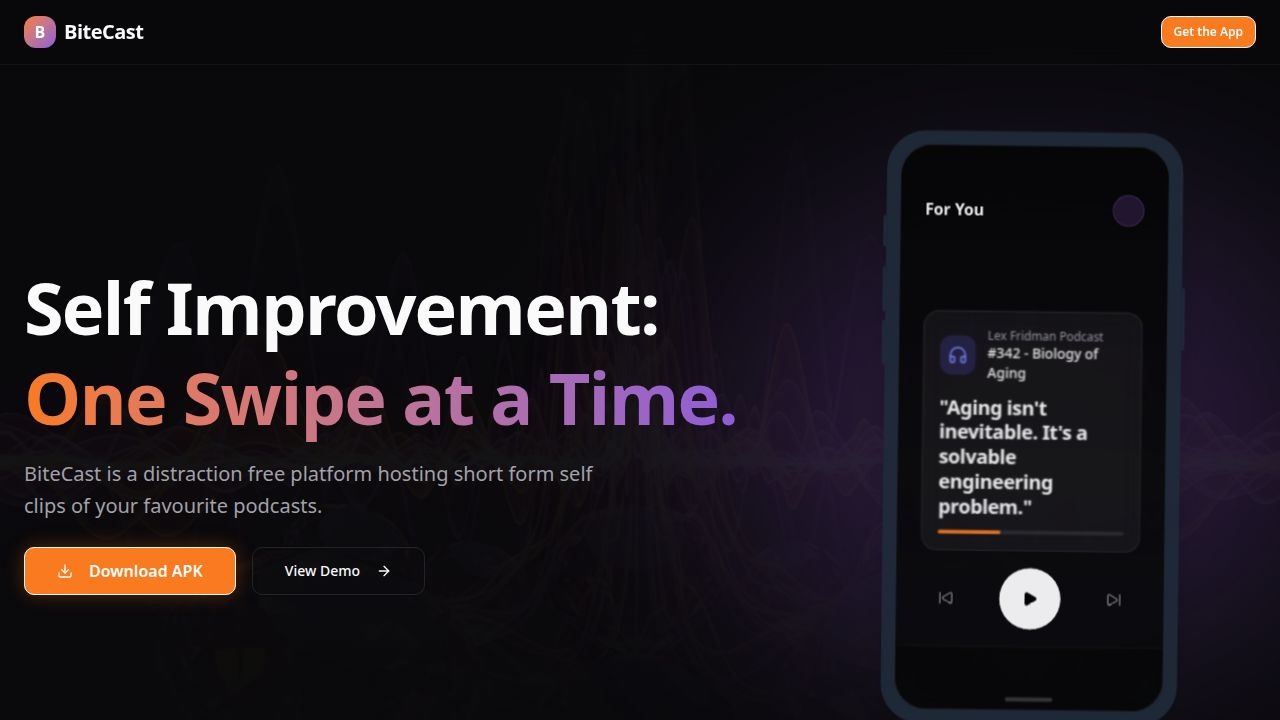
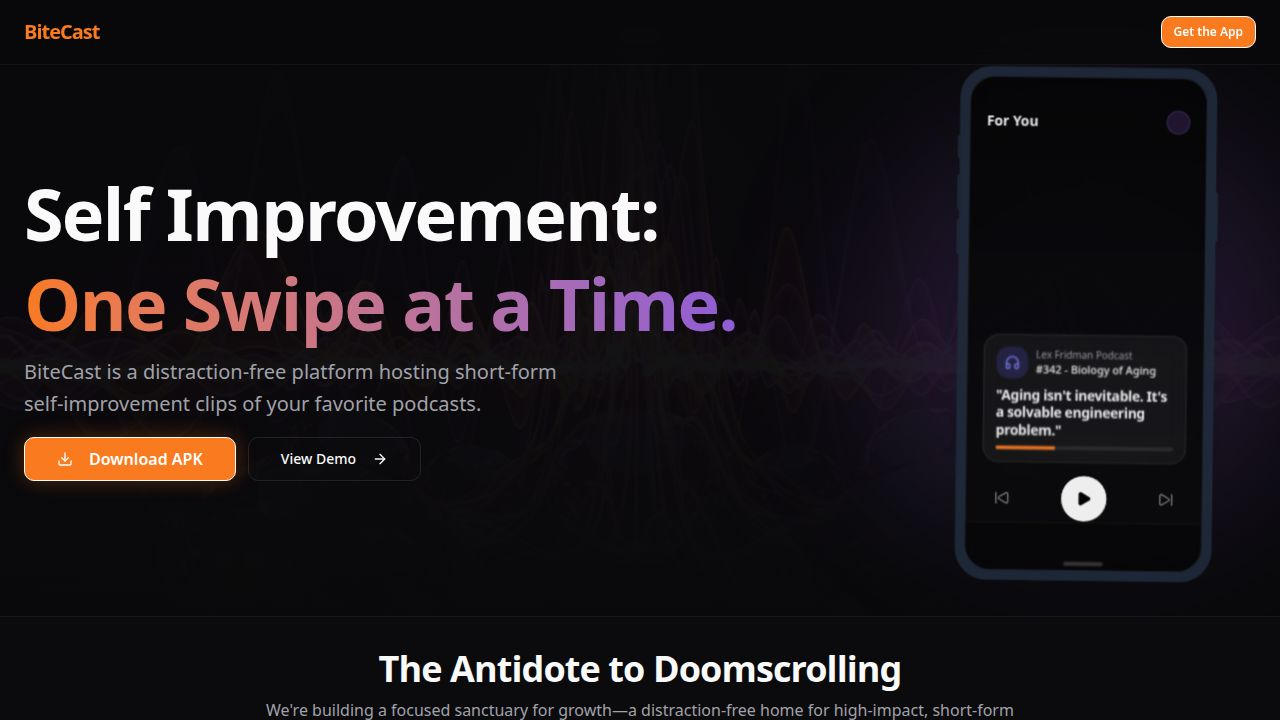
Tighten spacing and reduce element sizes across the landing page
Adjusted padding, margins, and button/mockup dimensions in `client/src/pages/home.tsx` to create a more compact UI.

Replit-Commit-Author: Agent
Replit-Commit-Session-Id: 0bd07f85-ab07-417b-9c41-ed8c2dc772e7
Replit-Commit-Checkpoint-Type: full_checkpoint
Replit-Commit-Event-Id: a2579261-8c98-4568-9f39-3784bae72368
Replit-Commit-Screenshot-Url: https://storage.googleapis.com/screenshot-production-us-central1/eac42e94-638d-492f-a15c-382911030d7d/0bd07f85-ab07-417b-9c41-ed8c2dc772e7/Fng3XMm
Replit-Helium-Checkpoint-Created: true

diff --git a/client/src/pages/home.tsx b/client/src/pages/home.tsx
@@ -24,7 +24,7 @@ export default function Home() {
       </nav>
 
       {/* Hero Section */}
-      <section className="relative pt-24 pb-16 md:pt-32 md:pb-24 overflow-hidden">
+      <section className="relative pt-12 pb-4 md:pt-16 md:pb-8 overflow-hidden">
         {/* Background Gradient/Image */}
         <div className="absolute inset-0 z-0">
           <div className="absolute inset-0 bg-background/90 z-10" />
@@ -37,32 +37,32 @@ export default function Home() {
         </div>
 
         <div className="container mx-auto px-6 relative z-30">
-          <div className="flex flex-col md:flex-row items-center gap-8 md:gap-16">
+          <div className="flex flex-col md:flex-row items-center gap-4 md:gap-8">
             <div className="flex-1 text-center md:text-left">
               <motion.div
                 initial={{ opacity: 0, y: 20 }}
                 animate={{ opacity: 1, y: 0 }}
                 transition={{ duration: 0.5 }}
               >
-                <h1 className="text-4xl md:text-6xl lg:text-7xl font-bold font-heading leading-tight mb-4">
+                <h1 className="text-4xl md:text-6xl lg:text-7xl font-bold font-heading leading-tight mb-2">
                   Self Improvement: <br />
                   <span className="text-transparent bg-clip-text bg-gradient-to-r from-primary to-secondary">
                     One Swipe at a Time.
                   </span>
                 </h1>
-                <p className="text-lg md:text-xl text-muted-foreground mb-6 max-w-xl mx-auto md:mx-0 leading-relaxed">
+                <p className="text-lg md:text-xl text-muted-foreground mb-4 max-w-xl mx-auto md:mx-0 leading-relaxed">
                   BiteCast is a distraction-free platform hosting short-form self-improvement clips of your favorite podcasts.
                 </p>
-                <div className="flex flex-col sm:flex-row items-center gap-4 justify-center md:justify-start">
+                <div className="flex flex-col sm:flex-row items-center gap-3 justify-center md:justify-start">
                   <Button 
                     size="lg" 
-                    className="w-full sm:w-auto text-base font-semibold h-12 px-8 shadow-[0_0_20px_rgba(249,115,22,0.3)] hover:shadow-[0_0_30px_rgba(249,115,22,0.5)] transition-shadow"
+                    className="w-full sm:w-auto text-base font-semibold h-11 px-8 shadow-[0_0_20px_rgba(249,115,22,0.3)] hover:shadow-[0_0_30px_rgba(249,115,22,0.5)] transition-shadow"
                     onClick={scrollToDownload}
                   >
                     <Download className="mr-2 h-5 w-5" />
                     Download APK
                   </Button>
-                  <Button variant="outline" size="lg" className="w-full sm:w-auto h-12 px-8 border-white/10 hover:bg-white/5">
+                  <Button variant="outline" size="lg" className="w-full sm:w-auto h-11 px-8 border-white/10 hover:bg-white/5">
                     View Demo <ArrowRight className="ml-2 h-4 w-4" />
                   </Button>
                 </div>
@@ -70,42 +70,42 @@ export default function Home() {
             </div>
 
             {/* Phone Mockup */}
-            <div className="flex-1 w-full max-w-[320px] md:max-w-md relative">
+            <div className="flex-1 w-full max-w-[280px] md:max-w-[340px] relative">
               <motion.div
                 initial={{ opacity: 0, scale: 0.9, rotate: 6 }}
                 animate={{ opacity: 1, scale: 1, rotate: 0 }}
                 transition={{ duration: 0.7, delay: 0.2 }}
                 className="relative z-10"
               >
-                <div className="relative mx-auto border-gray-800 bg-gray-800 border-[14px] rounded-[2.5rem] h-[600px] w-[300px] shadow-2xl">
-                  <div className="h-[32px] w-[3px] bg-gray-800 absolute -start-[17px] top-[72px] rounded-s-lg"></div>
-                  <div className="h-[46px] w-[3px] bg-gray-800 absolute -start-[17px] top-[124px] rounded-s-lg"></div>
-                  <div className="h-[46px] w-[3px] bg-gray-800 absolute -start-[17px] top-[178px] rounded-s-lg"></div>
-                  <div className="h-[64px] w-[3px] bg-gray-800 absolute -end-[17px] top-[142px] rounded-e-lg"></div>
-                  <div className="rounded-[2rem] overflow-hidden w-full h-full bg-background border border-white/5 flex flex-col relative">
+                <div className="relative mx-auto border-gray-800 bg-gray-800 border-[10px] rounded-[2rem] h-[520px] w-[260px] shadow-2xl">
+                  <div className="h-[24px] w-[2px] bg-gray-800 absolute -start-[12px] top-[60px] rounded-s-lg"></div>
+                  <div className="h-[36px] w-[2px] bg-gray-800 absolute -start-[12px] top-[100px] rounded-s-lg"></div>
+                  <div className="h-[36px] w-[2px] bg-gray-800 absolute -start-[12px] top-[145px] rounded-s-lg"></div>
+                  <div className="h-[50px] w-[2px] bg-gray-800 absolute -end-[12px] top-[115px] rounded-e-lg"></div>
+                  <div className="rounded-[1.6rem] overflow-hidden w-full h-full bg-background border border-white/5 flex flex-col relative">
                     
                     {/* Mock UI Content */}
                     <div className="absolute inset-0 bg-gradient-to-b from-black/60 to-transparent z-10 pointer-events-none" />
                     
                     {/* Top Bar */}
-                    <div className="p-6 pt-12 flex justify-between items-center z-20">
-                       <span className="font-heading font-bold">For You</span>
-                       <div className="w-8 h-8 rounded-full bg-secondary/20 border border-secondary/30" />
+                    <div className="p-4 pt-8 flex justify-between items-center z-20">
+                       <span className="font-heading font-bold text-sm">For You</span>
+                       <div className="w-6 h-6 rounded-full bg-secondary/20 border border-secondary/30" />
                     </div>
 
                     {/* Main Content Area - The "Card" */}
-                    <div className="flex-1 flex flex-col justify-end p-6 z-20 pb-20">
-                      <div className="bg-white/5 backdrop-blur-md border border-white/10 rounded-2xl p-4 mb-4">
-                         <div className="flex items-center gap-3 mb-3">
-                           <div className="w-10 h-10 rounded-lg bg-indigo-500/20 flex items-center justify-center">
-                             <Headphones className="w-5 h-5 text-indigo-400" />
+                    <div className="flex-1 flex flex-col justify-end p-4 z-20 pb-12">
+                      <div className="bg-white/5 backdrop-blur-md border border-white/10 rounded-xl p-3 mb-3">
+                         <div className="flex items-center gap-2 mb-2">
+                           <div className="w-8 h-8 rounded-lg bg-indigo-500/20 flex items-center justify-center">
+                             <Headphones className="w-4 h-4 text-indigo-400" />
                            </div>
                            <div>
-                             <p className="text-xs text-muted-foreground">Lex Fridman Podcast</p>
-                             <p className="font-medium text-sm">#342 - Biology of Aging</p>
+                             <p className="text-[10px] text-muted-foreground">Lex Fridman Podcast</p>
+                             <p className="font-medium text-[11px]">#342 - Biology of Aging</p>
                            </div>
                          </div>
-                         <h3 className="font-heading font-bold text-xl leading-tight mb-3">
+                         <h3 className="font-heading font-bold text-sm leading-tight mb-2">
                            "Aging isn't inevitable. It's a solvable engineering problem."
                          </h3>
                          <div className="w-full h-1 bg-white/10 rounded-full overflow-hidden">
@@ -114,40 +114,40 @@ export default function Home() {
                       </div>
 
                       {/* Controls */}
-                      <div className="flex items-center justify-between px-2">
-                        <Button size="icon" variant="ghost" className="rounded-full text-white/50 hover:text-white hover:bg-white/10">
-                          <SkipForward className="w-6 h-6 rotate-180" />
+                      <div className="flex items-center justify-between px-1">
+                        <Button size="icon" variant="ghost" className="h-8 w-8 rounded-full text-white/50 hover:text-white hover:bg-white/10">
+                          <SkipForward className="w-4 h-4 rotate-180" />
                         </Button>
-                        <Button size="icon" className="h-16 w-16 rounded-full bg-white text-black hover:bg-gray-200">
-                           <Play className="w-8 h-8 fill-black" />
+                        <Button size="icon" className="h-12 w-12 rounded-full bg-white text-black hover:bg-gray-200">
+                           <Play className="w-6 h-6 fill-black" />
                         </Button>
-                         <Button size="icon" variant="ghost" className="rounded-full text-white/50 hover:text-white hover:bg-white/10">
-                          <SkipForward className="w-6 h-6" />
+                         <Button size="icon" variant="ghost" className="h-8 w-8 rounded-full text-white/50 hover:text-white hover:bg-white/10">
+                          <SkipForward className="w-4 h-4" />
                         </Button>
                       </div>
                     </div>
 
                     {/* Bottom Nav */}
-                    <div className="absolute bottom-0 w-full h-16 bg-black/40 backdrop-blur-xl border-t border-white/5 flex items-center justify-around z-30">
-                       <div className="w-12 h-1 bg-white/20 rounded-full mb-2 mx-auto mt-auto" /> 
+                    <div className="absolute bottom-0 w-full h-12 bg-black/40 backdrop-blur-xl border-t border-white/5 flex items-center justify-around z-30">
+                       <div className="w-10 h-1 bg-white/20 rounded-full mb-1 mx-auto mt-auto" /> 
                     </div>
                   </div>
                 </div>
               </motion.div>
               
               {/* Decorative elements behind phone */}
-              <div className="absolute top-1/2 left-1/2 -translate-x-1/2 -translate-y-1/2 w-[140%] h-[80%] bg-secondary/20 blur-[100px] -z-10 rounded-full" />
+              <div className="absolute top-1/2 left-1/2 -translate-x-1/2 -translate-y-1/2 w-[120%] h-[70%] bg-secondary/20 blur-[80px] -z-10 rounded-full" />
             </div>
           </div>
         </div>
       </section>
 
       {/* Value Proposition */}
-      <section id="features" className="py-16 bg-card/30 border-y border-white/5">
+      <section id="features" className="py-8 bg-card/30 border-y border-white/5">
         <div className="container mx-auto px-6">
-          <div className="text-center max-w-3xl mx-auto mb-12">
-            <h2 className="text-3xl md:text-5xl font-bold font-heading mb-4">The Antidote to Doomscrolling</h2>
-            <p className="text-muted-foreground text-lg leading-relaxed">
+          <div className="text-center max-w-3xl mx-auto">
+            <h2 className="text-2xl md:text-4xl font-bold font-heading mb-2">The Antidote to Doomscrolling</h2>
+            <p className="text-muted-foreground text-base leading-relaxed">
               We're building a focused sanctuary for growth—a distraction-free home for high-impact, short-form wisdom.
             </p>
           </div>
@@ -155,23 +155,23 @@ export default function Home() {
       </section>
 
       {/* App Download CTA */}
-      <section id="download" className="py-16 relative overflow-hidden">
+      <section id="download" className="py-8 relative overflow-hidden">
         <div className="container mx-auto px-6 relative z-10">
-          <div className="bg-gradient-to-br from-gray-900 to-black border border-white/10 rounded-3xl p-10 md:p-16 text-center overflow-hidden relative">
+          <div className="bg-gradient-to-br from-gray-900 to-black border border-white/10 rounded-2xl p-6 md:p-10 text-center overflow-hidden relative">
             
             {/* Background Mesh */}
-            <div className="absolute inset-0 opacity-30">
-               <div className="absolute top-0 right-0 w-96 h-96 bg-primary/20 blur-[100px] rounded-full" />
-               <div className="absolute bottom-0 left-0 w-96 h-96 bg-secondary/20 blur-[100px] rounded-full" />
+            <div className="absolute inset-0 opacity-20">
+               <div className="absolute top-0 right-0 w-72 h-72 bg-primary/20 blur-[80px] rounded-full" />
+               <div className="absolute bottom-0 left-0 w-72 h-72 bg-secondary/20 blur-[80px] rounded-full" />
             </div>
 
-            <div className="relative z-10 max-w-2xl mx-auto">
-              <h2 className="text-3xl md:text-5xl font-bold font-heading mb-10">Improve your content consumption</h2>
+            <div className="relative z-10 max-w-xl mx-auto">
+              <h2 className="text-2xl md:text-4xl font-bold font-heading mb-6">Improve your content consumption</h2>
               
-              <div className="flex flex-col items-center gap-4">
+              <div className="flex flex-col items-center gap-3">
                 <Button 
                   size="lg" 
-                  className="h-16 px-8 text-lg w-full sm:w-auto bg-primary text-primary-foreground hover:bg-primary/90 shadow-xl shadow-primary/20"
+                  className="h-14 px-8 text-base w-full sm:w-auto bg-primary text-primary-foreground hover:bg-primary/90 shadow-xl shadow-primary/20"
                   onClick={() => {
                      // Simulate download
                      const link = document.createElement('a');
@@ -182,10 +182,10 @@ export default function Home() {
                      document.body.removeChild(link);
                   }}
                 >
-                  <Download className="mr-3 h-6 w-6" />
+                  <Download className="mr-3 h-5 w-5" />
                   Download Android APK
                 </Button>
-                <p className="text-sm text-muted-foreground mt-2">Version 1.0.2 • Free Beta Access</p>
+                <p className="text-xs text-muted-foreground">Version 1.0.2 • Free Beta Access</p>
               </div>
             </div>
           </div>
@@ -193,18 +193,18 @@ export default function Home() {
       </section>
 
       {/* Footer */}
-      <footer className="py-12 border-t border-white/5 bg-background">
-        <div className="container mx-auto px-6 flex flex-col md:flex-row justify-between items-center gap-6">
+      <footer className="py-6 border-t border-white/5 bg-background">
+        <div className="container mx-auto px-6 flex flex-col md:flex-row justify-between items-center gap-4">
           <div className="flex items-center gap-2">
-            <span className="font-heading font-bold text-lg text-primary">BiteCast</span>
+            <span className="font-heading font-bold text-base text-primary">BiteCast</span>
           </div>
-          <div className="text-sm text-muted-foreground">
+          <div className="text-xs text-muted-foreground">
             © 2024 BiteCast Inc. Meaningful consumption.
           </div>
-          <div className="flex gap-6 text-sm text-muted-foreground">
-            <a href="#" className="hover:text-primary">Privacy</a>
-            <a href="#" className="hover:text-primary">Terms</a>
-            <a href="#" className="hover:text-primary">Contact</a>
+          <div className="flex gap-4 text-xs text-muted-foreground">
+            <a href="#" className="hover:text-primary transition-colors">Privacy</a>
+            <a href="#" className="hover:text-primary transition-colors">Terms</a>
+            <a href="#" className="hover:text-primary transition-colors">Contact</a>
           </div>
         </div>
       </footer>
